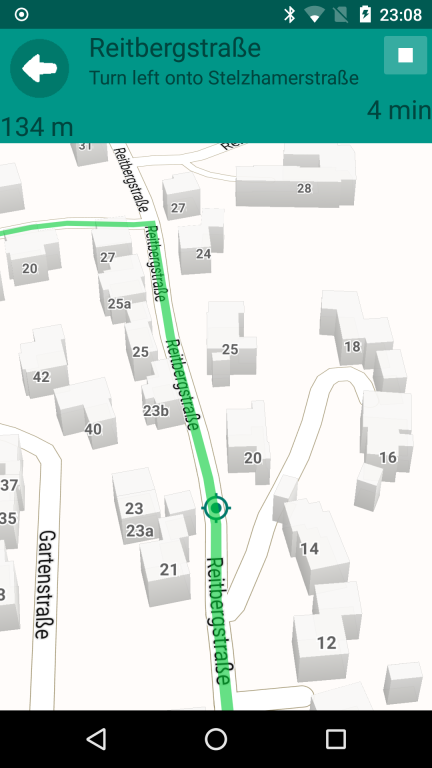
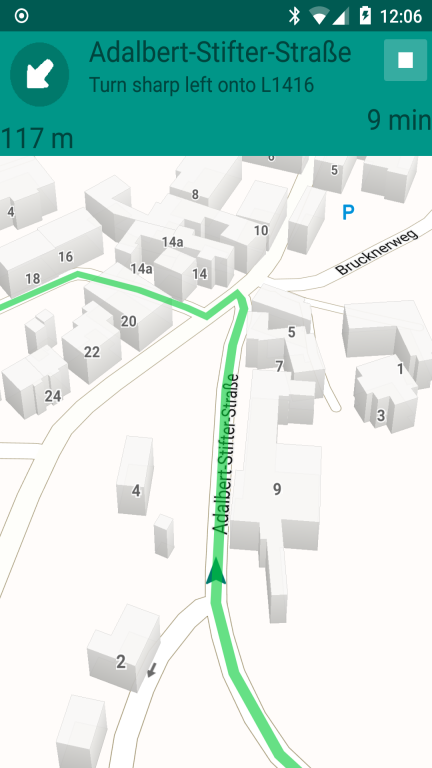
Different position-marker for navigation.

diff --git a/PocketMaps/app/src/main/java/com/junjunguo/pocketmaps/map/MapHandler.java b/PocketMaps/app/src/main/java/com/junjunguo/pocketmaps/map/MapHandler.java
@@ -71,6 +71,7 @@ public class MapHandler
   private String currentArea;
   File mapsFolder;
   PointList trackingPointList;
+  private int customIcon = R.drawable.ic_my_location_dark_24dp;
   private MapFileTileSource tileSource;
   /**
    * need to know if path calculating status change; this will trigger MapActions function
@@ -159,7 +160,8 @@ public class MapHandler
       new GHAsyncTask<Void, Void, Path>() {
           protected Path saveDoInBackground(Void... v) throws Exception {
               GraphHopper tmpHopp = new GraphHopper().forMobile();
-tmpHopp.getCHFactoryDecorator().addWeighting("shortest"); // Why is "shortest" missing in def config?
+              // Why is "shortest" missing in default config? Add!
+              tmpHopp.getCHFactoryDecorator().addWeighting("shortest");
               tmpHopp.load(new File(mapsFolder, currentArea).getAbsolutePath() + "-gh");
               log("found graph " + tmpHopp.getGraphHopperStorage().toString() + ", nodes:" + tmpHopp.getGraphHopperStorage().getNodes());
               hopper = tmpHopp;
@@ -245,12 +247,12 @@ tmpHopp.getCHFactoryDecorator().addWeighting("shortest"); // Why is "shortest" m
     }
     if (refreshBooth)
     {
-      itemizedLayer.addItem(createMarkerItem(startMarker, R.drawable.ic_location_start_24dp));
-      itemizedLayer.addItem(createMarkerItem(endMarker, R.drawable.ic_location_end_24dp));
+      itemizedLayer.addItem(createMarkerItem(startMarker, R.drawable.ic_location_start_24dp, 0.5f, 1.0f));
+      itemizedLayer.addItem(createMarkerItem(endMarker, R.drawable.ic_location_end_24dp, 0.5f, 1.0f));
     }
     else if (p!=null)
     {
-      itemizedLayer.addItem(createMarkerItem(p, icon));
+      itemizedLayer.addItem(createMarkerItem(p, icon, 0.5f, 1.0f));
     }
     if (startMarker!=null && endMarker!=null && recalculate)
     {
@@ -267,22 +269,34 @@ tmpHopp.getCHFactoryDecorator().addWeighting("shortest"); // Why is "shortest" m
     calcPath(startMarker.getLatitude(), startMarker.getLongitude(), endMarker.getLatitude(), endMarker.getLongitude());
   }
 
-  /** Set the custom Point for current location, or null to delete. **/
-  public void setCustomPoint(GeoPoint p, int icon)
+  /** Set the custom Point for current location, or null to delete.
+   *  Sets the offset to center. **/
+  public void setCustomPoint(GeoPoint p)
   {
     customLayer.removeAllItems();
     if (p!=null)
     {
-      customLayer.addItem(createMarkerItem(p,icon));
+      customLayer.addItem(createMarkerItem(p,customIcon, 0.5f, 0.5f));
       mapView.map().updateMap(true);
     }
   }
+  
+  public void setCustomPointIcon(int customIcon)
+  {
+    this.customIcon = customIcon;
+    if (customLayer.getItemList().size() > 0)
+    { // RefreshIcon
+      MarkerItem curSymbol = customLayer.getItemList().get(0);
+      MarkerSymbol marker = createMarkerItem(new GeoPoint(0,0), customIcon, 0.5f, 0.5f).getMarker();
+      curSymbol.setMarker(marker);
+    }
+  }
 
-  private MarkerItem createMarkerItem(GeoPoint p, int resource) {
-//      Drawable drawable = activity.getDrawable(resource); // Since Api21
+  private MarkerItem createMarkerItem(GeoPoint p, int resource, float offsetX, float offsetY) {
+//      Drawable drawable = activity.getDrawable(resource); // Since API21
       Drawable drawable = ContextCompat.getDrawable(activity, resource);
       Bitmap bitmap = AndroidGraphics.drawableToBitmap(drawable);
-      MarkerSymbol markerSymbol = new MarkerSymbol(bitmap, 0.5f, 1);
+      MarkerSymbol markerSymbol = new MarkerSymbol(bitmap, offsetX, offsetY);
       MarkerItem markerItem = new MarkerItem("", "", p);
       markerItem.setMarker(markerSymbol);
       return markerItem;

diff --git a/PocketMaps/app/src/main/java/com/junjunguo/pocketmaps/navigator/NaviEngine.java b/PocketMaps/app/src/main/java/com/junjunguo/pocketmaps/navigator/NaviEngine.java
@@ -67,6 +67,7 @@ public class NaviEngine
     }
     if (active == false)
     {
+      MapHandler.getMapHandler().setCustomPointIcon(R.drawable.ic_my_location_dark_24dp);
       if (pos != null)
       {
         GeoPoint curPos = new GeoPoint(pos.getLatitude(), pos.getLongitude());
@@ -75,6 +76,7 @@ public class NaviEngine
       NaviDebugSimulator.getSimu().setSimuRun(false);
       return;
     }
+    MapHandler.getMapHandler().setCustomPointIcon(R.drawable.ic_navigation_black_24dp);
     naviVoiceSpoken = false;
     uiJob = UiJob.Nothing;
     initFields(activity);
@@ -147,7 +149,7 @@ public class NaviEngine
     }
     else
     {
-      createNaviEngineTask(); //TODO: Asynctask kann nur einmal gestartet werden.
+      createNaviEngineTask(); //TODO: Recreation of Asynctask seems necessary?!
       naviEngineTask.execute(curPos);
     }
   }

diff --git a/PocketMaps/app/src/main/java/com/junjunguo/pocketmaps/activities/MapActivity.java b/PocketMaps/app/src/main/java/com/junjunguo/pocketmaps/activities/MapActivity.java
@@ -176,7 +176,7 @@ public class MapActivity extends Activity implements LocationListener {
             {
               NaviEngine.getNaviEngine().updatePosition(this, mCurrentLocation);
             }
-            MapHandler.getMapHandler().setCustomPoint(mcLatLong, R.drawable.ic_my_location_dark_24dp);
+            MapHandler.getMapHandler().setCustomPoint(mcLatLong);
             mapActions.showPositionBtn.setImageResource(R.drawable.ic_my_location_white_24dp);
         } else {
             mapActions.showPositionBtn.setImageResource(R.drawable.ic_location_searching_white_24dp);
